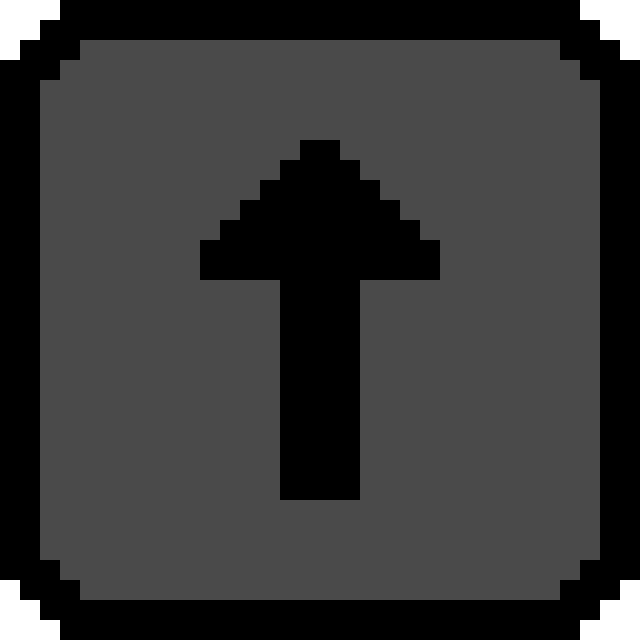
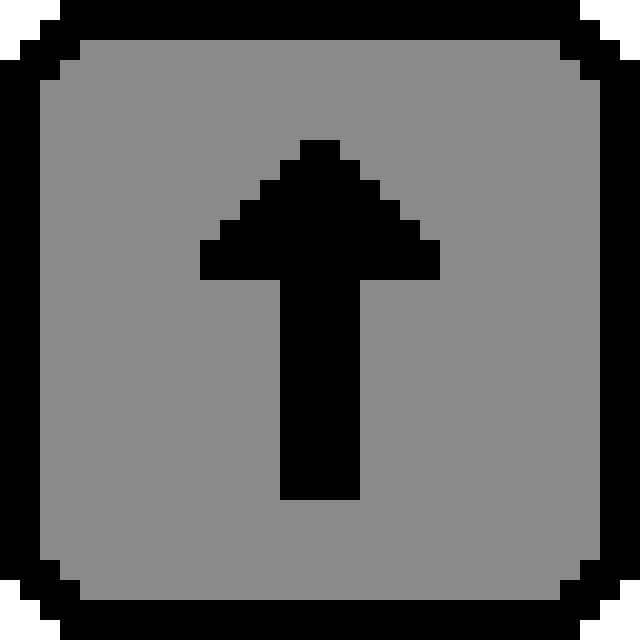
style colors

diff --git a/styles.css b/styles.css
@@ -1,9 +1,9 @@
 :root {
   --headerFont: "Bungee Inline", sans-serif;
   --textFont: "IBM Plex Mono", monospace;
-  --mainBlue: #10829e;
+  --mainDark: #819A91;
   --white: #ffffff;
-  --bgColor: #d1dfe2;
+  --bgColor: #EEEFE0;
 
 }
 
@@ -12,6 +12,10 @@ body {
     font-family: var(--textFont);
     background-color: var(--bgColor);
     font-size: 1rem;
+}
+
+li::marker {
+    color: var(--white);
 }
 
 #infoText {
@@ -27,7 +31,6 @@ body {
 #gameArea {
     width: 90vw;
     height: 90vw;
-    background-color: var(--mainBlue);
     display: flex;
     flex-direction: column;
     justify-content: center;
@@ -111,17 +114,17 @@ body {
 
 .headerCV {
     font-size: 2rem;
-    color: var(--white);
-
+    color: var(--mainDark);
 }
 
 .headerFont {
     font-family: var(--headerFont);
+    font-weight: lighter;
 }
 
 .headerMain {
     font-size: 3rem;
-    color: var(--mainBlue);
+    color: var(--mainDark);
     text-align: center;
     margin-bottom: 0;
 }
